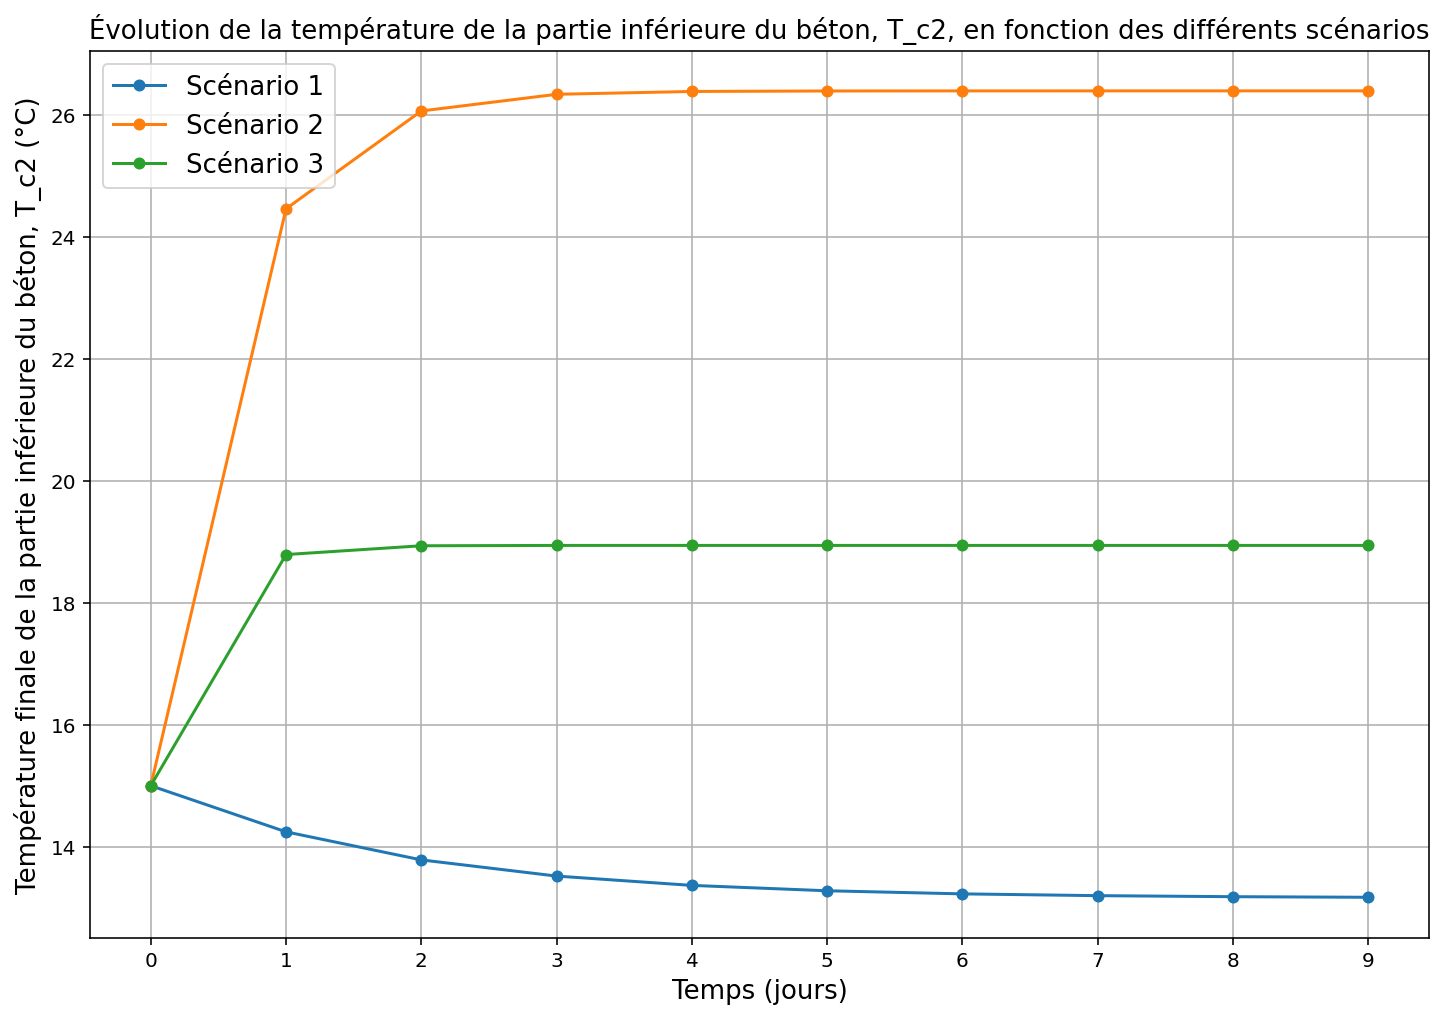
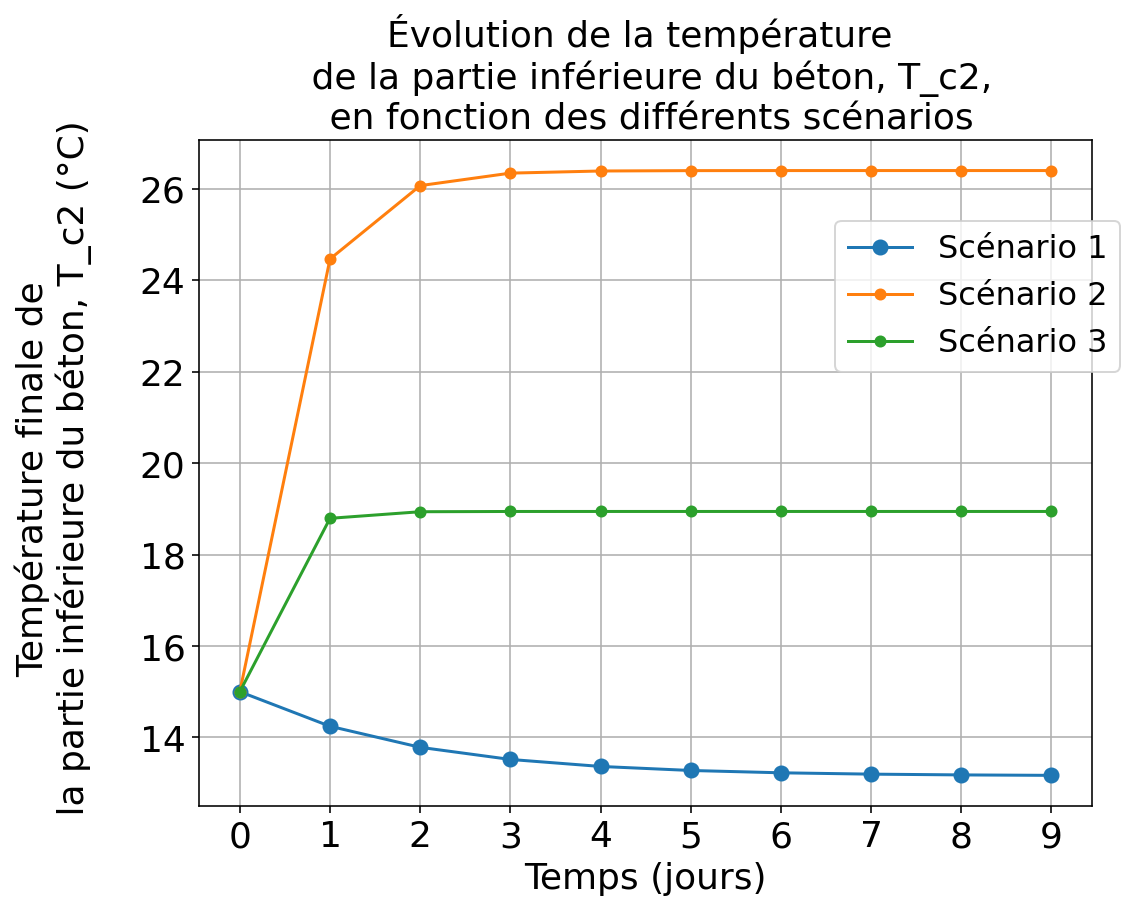
fix: plot 2

diff --git a/SimTABS.py b/SimTABS.py
@@ -283,13 +283,15 @@ T_f1 = T_f
 for j in range(len(T0)): #On affiche chaque T[:]
     
     # Scénario 1 (voir question 5) ##############################################
-    plt.figure(figsize=(9, 6))
+    plt.figure(figsize=(8, 6))
+    plt.rc('xtick', labelsize=18)  # Taille police graduations x
+    plt.rc('ytick', labelsize=18)  # Taille police graduations y
     plt.xticks(np.linspace(t_f1[0], t_f1[-1], 10))  # Divise la grille en 8 parts verticales égales
-    plt.plot(t_f1, T_f1[:, j], 'o-', markersize=5, label="Scénario 1")
-    plt.xlabel("Temps (jours)",fontsize=13)
-    plt.ylabel(f"Température finale de \n {nom_T[j]} (°C)",fontsize=15)
+    plt.plot(t_f1, T_f1[:, j], 'o-', markersize=7, label="Scénario 1")
+    plt.xlabel("Temps (jours)",fontsize=18)
+    plt.ylabel(f"Température finale de \n {nom_T[j]} (°C)\n",fontsize=18)
     plt.grid(True)
-    plt.title(f"Évolution de la température de {nom_T[j]},\n en fonction des différents scénarios", fontsize=15)
+    plt.title(f"Évolution de la température \n de {nom_T[j]},\n en fonction des différents scénarios", fontsize=18)
     
     # Scnéario 2 ##############################################################
     
